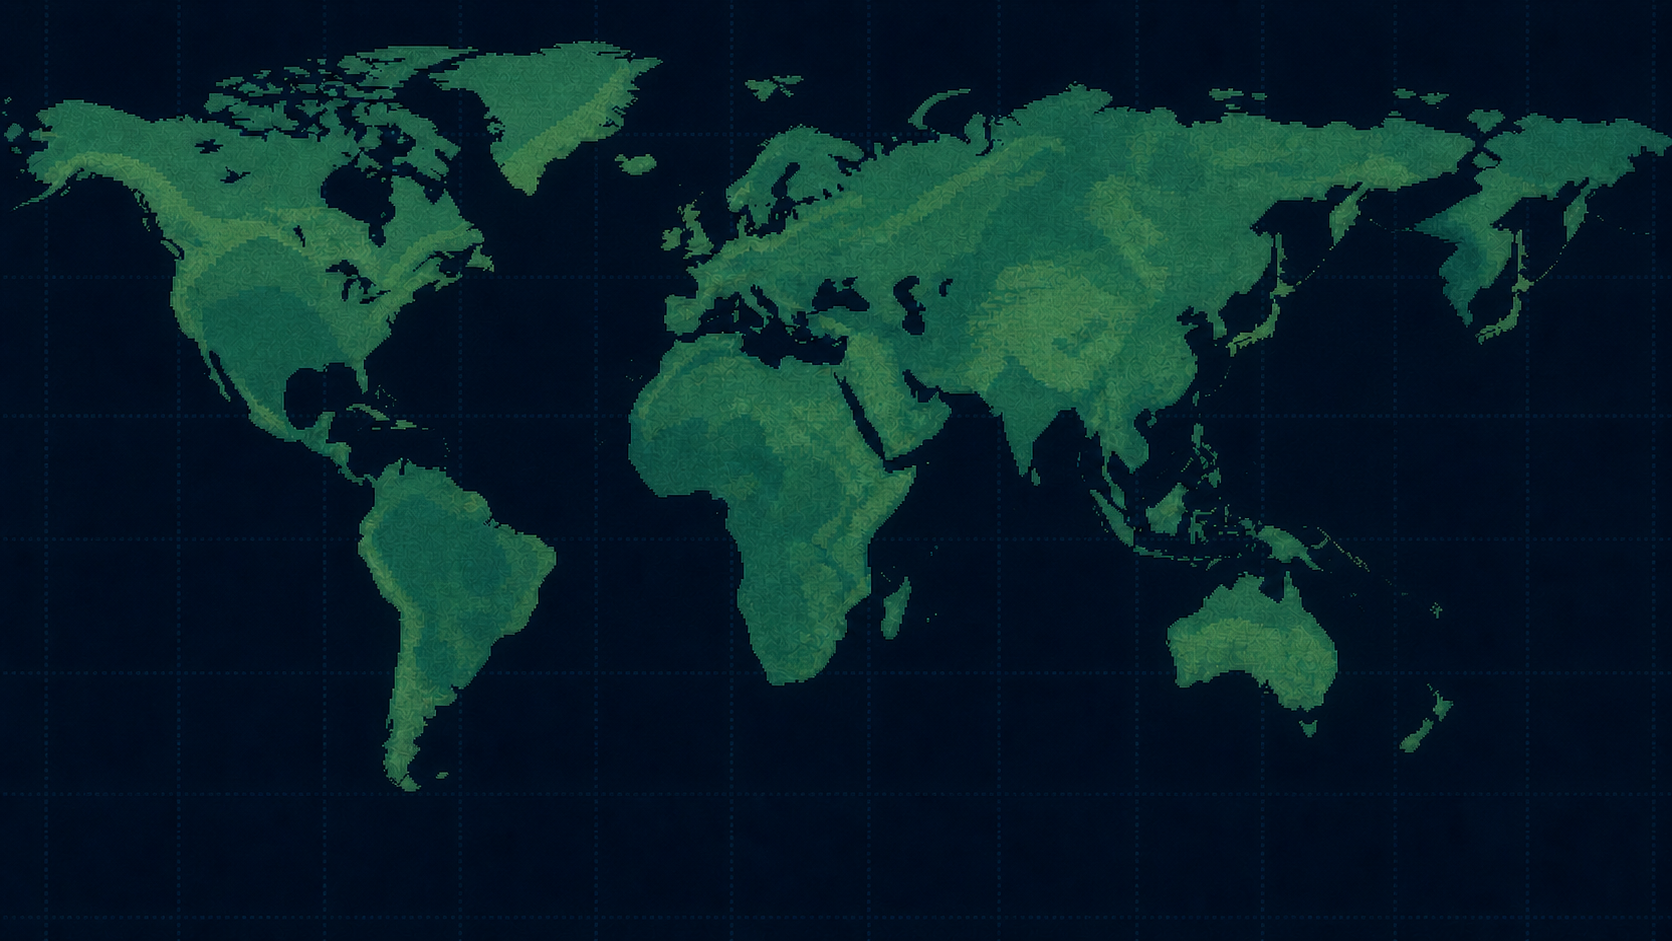
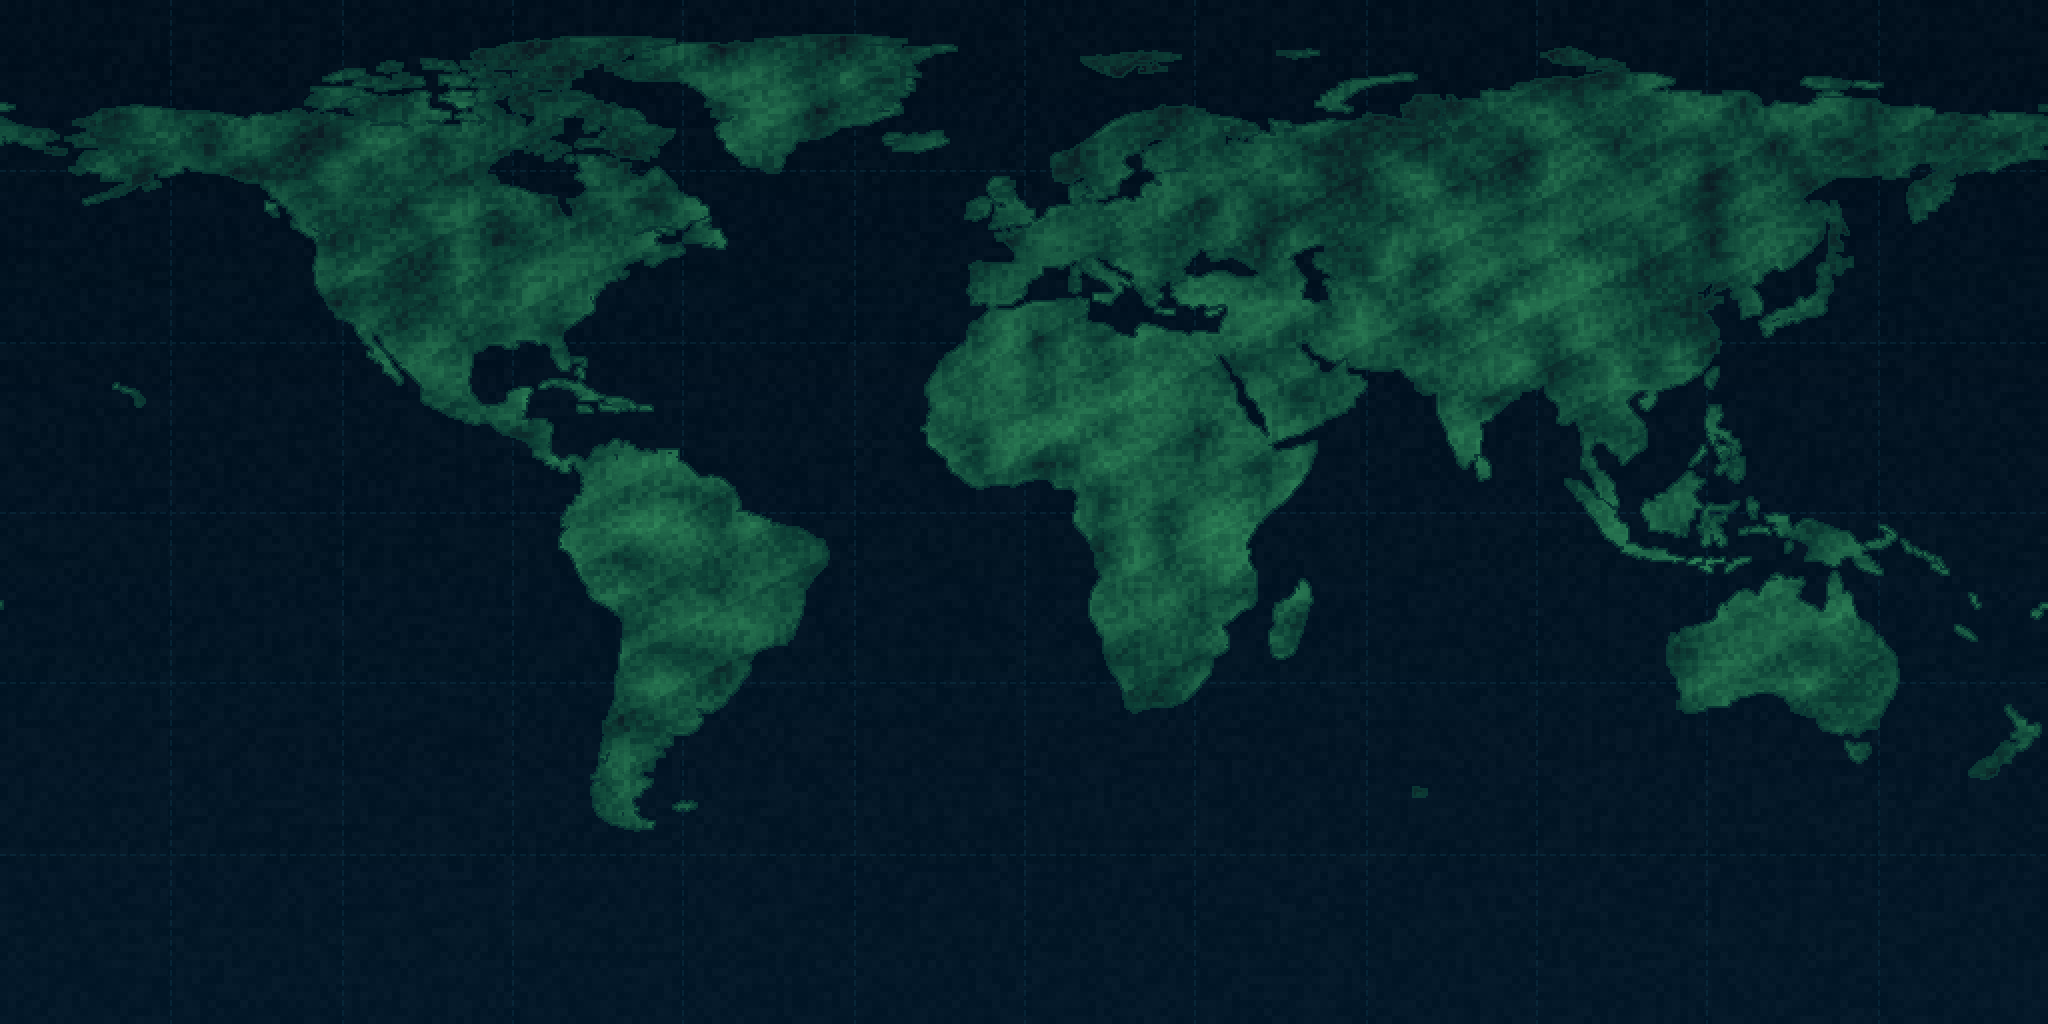
fix: replace duplicated world map with aligned projection

diff --git a/test/propagation-engine.test.js b/test/propagation-engine.test.js
@@ -3,7 +3,7 @@ import assert from "node:assert/strict";
 import {
   DEFAULT_PLAYER_LOCATION, GRID_HEIGHT, GRID_WIDTH, NPC_STATIONS, baseLevelAt,
   channelProfileForLevel, evaluatedNpcStations, finalPropagationLevel,
-  generatePropagationMap, locationFromNormalizedPoint, selectNpcForQso,
+  generatePropagationMap, locationFromNormalizedPoint, normalizedPointFromLocation, selectNpcForQso,
 } from "../src/propagation/propagationEngine.js";
 
 test("generates a deterministic 72x36 offline propagation map", () => {
@@ -57,4 +57,12 @@ test("antenna modifiers can reduce QSB without changing the propagation level", 
 test("normalized map clicks convert to latitude and longitude", () => {
   assert.deepEqual(locationFromNormalizedPoint(.5, .5), { latitude: 0, longitude: 0 });
   assert.deepEqual(locationFromNormalizedPoint(1, 0), { latitude: 90, longitude: 180 });
+});
+
+test("station coordinates use the equirectangular map projection", () => {
+  assert.deepEqual(normalizedPointFromLocation({ latitude: 0, longitude: 0 }), { x: .5, y: .5 });
+  const japan = normalizedPointFromLocation({ latitude: 35.68, longitude: 139.76 });
+  assert.ok(Math.abs(japan.x - .888222) < .000001);
+  assert.ok(Math.abs(japan.y - .301778) < .000001);
+  assert.deepEqual(normalizedPointFromLocation({ latitude: 120, longitude: 220 }), { x: 1, y: 0 });
 });

diff --git a/src/propagation/PropagationMap.jsx b/src/propagation/PropagationMap.jsx
@@ -1,5 +1,5 @@
 import { useEffect, useRef } from "react";
-import { locationFromNormalizedPoint } from "./propagationEngine.js";
+import { locationFromNormalizedPoint, normalizedPointFromLocation } from "./propagationEngine.js";
 
 const BASE_MAP = "./assets/world-map.png";
 const LEVEL_COLORS = ["#1597a4", "#16895f", "#d7c632", "#ef7b20", "#dd352f"];
@@ -38,8 +38,9 @@ export function PropagationMap({ map, mode = "propagation", onSelect, ariaLabel 
 
       const player = map.playerLocation;
       if (player) {
-        const px = (player.longitude + 180) / 360 * canvas.width;
-        const py = (90 - player.latitude) / 180 * canvas.height;
+        const point = normalizedPointFromLocation(player);
+        const px = point.x * canvas.width;
+        const py = point.y * canvas.height;
         context.fillStyle = "#061015";
         context.fillRect(Math.round(px) - 7, Math.round(py) - 7, 14, 14);
         context.strokeStyle = "#f4d25c";
@@ -56,5 +57,5 @@ export function PropagationMap({ map, mode = "propagation", onSelect, ariaLabel 
     onSelect(locationFromNormalizedPoint((event.clientX - bounds.left) / bounds.width, (event.clientY - bounds.top) / bounds.height));
   }
 
-  return <canvas ref={canvasRef} className={`propagation-canvas ${className}`} width="720" height="360" role="img" aria-label={ariaLabel} onPointerDown={handlePointer} />;
+  return <canvas ref={canvasRef} className={`propagation-canvas ${className}`} data-map-mode={mode} width="720" height="360" role="img" aria-label={ariaLabel} onPointerDown={handlePointer} />;
 }

diff --git a/src/propagation/propagationEngine.js b/src/propagation/propagationEngine.js
@@ -157,3 +157,12 @@ export function locationFromNormalizedPoint(x, y) {
     longitude: Number((-180 + clamp(x, 0, 1) * 360).toFixed(2)),
   };
 }
+
+export function normalizedPointFromLocation(location) {
+  const latitude = clamp(Number(location?.latitude) || 0, -90, 90);
+  const longitude = clamp(Number(location?.longitude) || 0, -180, 180);
+  return {
+    x: (longitude + 180) / 360,
+    y: (90 - latitude) / 180,
+  };
+}

diff --git a/src/App.jsx b/src/App.jsx
@@ -44,7 +44,7 @@ const ASSETS = {
   propagation: "./assets/propagation-map.png",
 };
 
-const BUILD_VERSION = "0.9.2";
+const BUILD_VERSION = "0.9.3";
 const ANTENNA_STATUS = {
   "zh-CN": { missing: "未装备天线，射频通联已停用", equip: "请在管理中心的仓库内装备天线" },
   "zh-TW": { missing: "未裝備天線，射頻通聯已停用", equip: "請在管理中心的倉庫內裝備天線" },

diff --git a/scripts/generate_world_map.py b/scripts/generate_world_map.py
@@ -1,0 +1,158 @@
+#!/usr/bin/env python3
+"""Render the game's pixel-art equirectangular world-map runtime asset.
+
+The input is Natural Earth's 1:110m land GeoJSON. Download it from:
+https://raw.githubusercontent.com/nvkelso/natural-earth-vector/master/geojson/ne_110m_land.geojson
+"""
+
+from __future__ import annotations
+
+import argparse
+import hashlib
+import json
+from pathlib import Path
+
+import numpy as np
+from PIL import Image, ImageDraw, ImageFilter, PngImagePlugin
+
+
+WORK_WIDTH = 1024
+WORK_HEIGHT = 512
+OUTPUT_SCALE = 2
+
+
+def project(longitude: float, latitude: float) -> tuple[float, float]:
+    """Project WGS84 longitude/latitude onto the 2:1 canvas."""
+    return (
+        (longitude + 180.0) / 360.0 * WORK_WIDTH,
+        (90.0 - latitude) / 180.0 * WORK_HEIGHT,
+    )
+
+
+def unwrap_ring(ring: list[list[float]]) -> list[tuple[float, float]]:
+    """Keep a dateline-crossing ring local instead of spanning the whole map."""
+    unwrapped: list[tuple[float, float]] = []
+    previous_longitude: float | None = None
+    offset = 0.0
+    for longitude, latitude in ring:
+        longitude = float(longitude)
+        if previous_longitude is not None:
+            delta = longitude + offset - previous_longitude
+            if delta > 180.0:
+                offset -= 360.0
+            elif delta < -180.0:
+                offset += 360.0
+        adjusted = longitude + offset
+        unwrapped.append(project(adjusted, float(latitude)))
+        previous_longitude = adjusted
+    return unwrapped
+
+
+def draw_wrapped_polygon(draw: ImageDraw.ImageDraw, points: list[tuple[float, float]], fill: int) -> None:
+    for shift in (-WORK_WIDTH, 0, WORK_WIDTH):
+        shifted = [(x + shift, y) for x, y in points]
+        if max(x for x, _ in shifted) >= 0 and min(x for x, _ in shifted) < WORK_WIDTH:
+            draw.polygon(shifted, fill=fill)
+
+
+def render_land_mask(geojson: dict) -> Image.Image:
+    mask = Image.new("L", (WORK_WIDTH, WORK_HEIGHT), 0)
+    draw = ImageDraw.Draw(mask)
+    for feature in geojson["features"]:
+        geometry = feature.get("geometry") or {}
+        if geometry.get("type") != "Polygon":
+            continue
+        bbox = feature.get("bbox") or []
+        # Match the established game map by leaving Antarctica outside the art.
+        if len(bbox) == 4 and float(bbox[3]) < -60:
+            continue
+        rings = geometry.get("coordinates") or []
+        if not rings:
+            continue
+        draw_wrapped_polygon(draw, unwrap_ring(rings[0]), 255)
+        for hole in rings[1:]:
+            draw_wrapped_polygon(draw, unwrap_ring(hole), 0)
+    return mask
+
+
+def pixel_noise(rng: np.random.Generator, height: int, width: int, block: int) -> np.ndarray:
+    noise = rng.integers(-12, 13, size=(height // block + 1, width // block + 1), dtype=np.int16)
+    return np.repeat(np.repeat(noise, block, axis=0), block, axis=1)[:height, :width]
+
+
+def render_map(geojson: dict) -> Image.Image:
+    rng = np.random.default_rng(20260724)
+    y = np.arange(WORK_HEIGHT, dtype=np.int16)[:, None]
+
+    ocean = np.empty((WORK_HEIGHT, WORK_WIDTH, 3), dtype=np.int16)
+    ocean[:, :, 0] = 2 + y // 180
+    ocean[:, :, 1] = 17 + y // 65
+    ocean[:, :, 2] = 30 + y // 48
+    ocean += pixel_noise(rng, WORK_HEIGHT, WORK_WIDTH, 4)[:, :, None] // 4
+    ocean = np.clip(ocean, 0, 255).astype(np.uint8)
+    image = Image.fromarray(ocean, "RGB")
+
+    grid = Image.new("RGBA", (WORK_WIDTH, WORK_HEIGHT), (0, 0, 0, 0))
+    grid_draw = ImageDraw.Draw(grid)
+    for longitude in range(-150, 180, 30):
+        x = round((longitude + 180) / 360 * WORK_WIDTH)
+        for start in range(0, WORK_HEIGHT, 5):
+            grid_draw.line((x, start, x, min(start + 2, WORK_HEIGHT - 1)), fill=(16, 72, 93, 72))
+    for latitude in range(-60, 90, 30):
+        grid_y = round((90 - latitude) / 180 * WORK_HEIGHT)
+        for start in range(0, WORK_WIDTH, 5):
+            grid_draw.line((start, grid_y, min(start + 2, WORK_WIDTH - 1), grid_y), fill=(16, 72, 93, 72))
+    image = Image.alpha_composite(image.convert("RGBA"), grid).convert("RGB")
+
+    land_mask = render_land_mask(geojson)
+    coarse = Image.fromarray(
+        rng.integers(0, 256, size=(32, 64), dtype=np.uint8),
+        "L",
+    ).resize((WORK_WIDTH, WORK_HEIGHT), Image.Resampling.BILINEAR)
+    coarse_array = np.asarray(coarse, dtype=np.int16) - 128
+    fine = pixel_noise(rng, WORK_HEIGHT, WORK_WIDTH, 3)
+    latitude_light = np.abs(y - WORK_HEIGHT // 2) // 18
+    diagonal = (((np.arange(WORK_WIDTH)[None, :] + y * 2) // 19) % 3 - 1) * 3
+    shade = coarse_array // 8 + fine // 2 + diagonal - latitude_light
+
+    land = np.empty((WORK_HEIGHT, WORK_WIDTH, 3), dtype=np.int16)
+    land[:, :, 0] = 25 + shade
+    land[:, :, 1] = 89 + shade * 2
+    land[:, :, 2] = 66 + shade
+    land = np.clip(land, 12, 145).astype(np.uint8)
+    image.paste(Image.fromarray(land, "RGB"), mask=land_mask)
+
+    coastline = np.asarray(land_mask.filter(ImageFilter.MaxFilter(3)), dtype=np.int16) - np.asarray(land_mask, dtype=np.int16)
+    coastline_mask = Image.fromarray(np.where(coastline > 0, 150, 0).astype(np.uint8), "L")
+    image.paste((15, 78, 63), mask=coastline_mask)
+
+    return image.resize(
+        (WORK_WIDTH * OUTPUT_SCALE, WORK_HEIGHT * OUTPUT_SCALE),
+        Image.Resampling.NEAREST,
+    )
+
+
+def main() -> None:
+    parser = argparse.ArgumentParser()
+    parser.add_argument("source", type=Path, help="Natural Earth ne_110m_land.geojson")
+    parser.add_argument(
+        "--output",
+        type=Path,
+        default=Path(__file__).resolve().parents[1] / "public" / "assets" / "world-map.png",
+    )
+    args = parser.parse_args()
+
+    source_bytes = args.source.read_bytes()
+    geojson = json.loads(source_bytes)
+    image = render_map(geojson)
+    args.output.parent.mkdir(parents=True, exist_ok=True)
+
+    metadata = PngImagePlugin.PngInfo()
+    metadata.add_text("Projection", "Equirectangular (Plate Carree), WGS84")
+    metadata.add_text("Land data", "Natural Earth 1:110m land, public domain")
+    metadata.add_text("Source SHA256", hashlib.sha256(source_bytes).hexdigest())
+    image.save(args.output, optimize=True, pnginfo=metadata)
+
+
+if __name__ == "__main__":
+    main()

diff --git a/THIRD_PARTY_NOTICES.md b/THIRD_PARTY_NOTICES.md
@@ -31,4 +31,11 @@ The following third-party projects are used by or distributed with Game-Morse-Ad
 - Project: https://vite.dev/
 - License: MIT License
 
+## Natural Earth
+
+- Project: https://www.naturalearthdata.com/
+- Dataset: 1:110m Land polygons
+- Use: Geographic source for the equirectangular pixel-art world map
+- Terms: Public domain
+
 Complete dependency license texts are available from each linked upstream project and from installed package metadata.

diff --git a/README.md b/README.md
@@ -61,11 +61,11 @@ pnpm run dev
 pnpm run desktop:build
 ```
 
-The project currently has 63 automated tests covering the CW core and repeating keyer, practice engine, QSO state machine, persistent QSO logs and results, idempotent credit settlement, store economy, owned inventory, propagation model, and save data rules.
+The project currently has 64 automated tests covering the CW core and repeating keyer, practice engine, QSO state machine, persistent QSO logs and results, idempotent credit settlement, store economy, owned inventory, propagation model, map projection, and save data rules.
 
 ## Project status
 
-Version **v0.9.2** replaces Home hotspot outlines with object-area filter highlights and adds a saved, adjustable automatic-key speed with deterministic Z/X hold-to-repeat. It remains a playable prototype with persistent QSO results, logbook history, a credit-based station store, owned-equipment inventory, and protected warehouse loadouts. Every accepted `main` revision is tested and packaged as a checksummed Windows x64 portable artifact without committing generated build directories to source control.
+Version **v0.9.3** replaces the malformed world-map artwork with a single 2:1 equirectangular map, removing the duplicated Japan while keeping station markers aligned with real latitude and longitude. It remains a playable prototype with persistent QSO results, logbook history, a credit-based station store, owned-equipment inventory, protected warehouse loadouts, adjustable automatic-key speed, and deterministic Z/X hold-to-repeat. Every accepted `main` revision is tested and packaged as a checksummed Windows x64 portable artifact without committing generated build directories to source control.
 
 ## Rights and third-party software
 

diff --git a/README.ja.md b/README.ja.md
@@ -44,7 +44,7 @@ pnpm run dev
 pnpm run desktop:build
 ```
 
-現在の **v0.9.2** は Home の不正確な輪郭線を廃止してオブジェクト範囲のフィルターハイライトに変更し、保存可能な 5–40 WPM のオートキー速度と Z/X 長押し連続送信に対応しました。CW コアとキーイングループ、練習システム、QSO ステートマシン、ログと精算、ショップ経済、伝搬モデル、セーブ移行規則をカバーする 63 件の自動テストがあります。`main` の更新ごとに自動テストを実行し、SHA-256 付き Windows x64 ポータブル版を生成します。EXE と生成済みビルドはソースリポジトリに含めません。
+現在の **v0.9.3** は不正な世界地図を単一の 2:1 正距円筒図法マップに置き換え、重複していた日本を削除し、局位置マーカーを実際の緯度・経度に合わせました。CW コアとキーイングループ、練習システム、QSO ステートマシン、ログと精算、ショップ経済、伝搬モデル、地図投影、セーブ移行規則をカバーする 64 件の自動テストがあります。`main` の更新ごとに自動テストを実行し、SHA-256 付き Windows x64 ポータブル版を生成します。EXE と生成済みビルドはソースリポジトリに含めません。
 
 ## 権利表記
 

diff --git a/README.zh-CN.md b/README.zh-CN.md
@@ -44,7 +44,7 @@ pnpm run dev
 pnpm run desktop:build
 ```
 
-当前 **v0.9.2** 已将 Home 物体悬停效果改为区域滤镜高亮，移除错误的多边形描边，并加入可保存的自动键速度与 Z/X 长按连续发报。共有 63 项自动测试，覆盖 CW 核心与自动键循环、练习系统、QSO 状态机、日志与结算、商店经济、传播模型及存档迁移规则。每次 `main` 更新都会自动测试并生成带 SHA-256 校验的 Windows x64 便携版，源码仓库不会提交 EXE 或构建目录。
+当前 **v0.9.3** 已将错误的世界地图替换为单一的 2:1 等距圆柱投影地图，删除重复的日本，并让台站标记与真实经纬度保持一致。共有 64 项自动测试，覆盖 CW 核心与自动键循环、练习系统、QSO 状态机、日志与结算、商店经济、传播模型、地图投影及存档迁移规则。每次 `main` 更新都会自动测试并生成带 SHA-256 校验的 Windows x64 便携版，源码仓库不会提交 EXE 或构建目录。
 
 ## 权利声明
 

diff --git a/README.zh-TW.md b/README.zh-TW.md
@@ -44,7 +44,7 @@ pnpm run dev
 pnpm run desktop:build
 ```
 
-目前 **v0.9.2** 已將 Home 物件懸停效果改為區域濾鏡高亮，移除錯誤的多邊形描邊，並加入可儲存的自動鍵速度與 Z/X 長按連續發報。共有 63 項自動測試，涵蓋 CW 核心與自動鍵循環、練習系統、QSO 狀態機、日誌與結算、商店經濟、傳播模型及存檔遷移規則。每次 `main` 更新都會自動測試並產生附 SHA-256 校驗的 Windows x64 可攜版，原始碼倉庫不提交 EXE 或建置目錄。
+目前 **v0.9.3** 已將錯誤的世界地圖替換為單一的 2:1 等距圓柱投影地圖，刪除重複的日本，並讓臺站標記與真實經緯度保持一致。共有 64 項自動測試，涵蓋 CW 核心與自動鍵循環、練習系統、QSO 狀態機、日誌與結算、商店經濟、傳播模型、地圖投影及存檔遷移規則。每次 `main` 更新都會自動測試並產生附 SHA-256 校驗的 Windows x64 可攜版，原始碼倉庫不提交 EXE 或建置目錄。
 
 ## 權利聲明
 